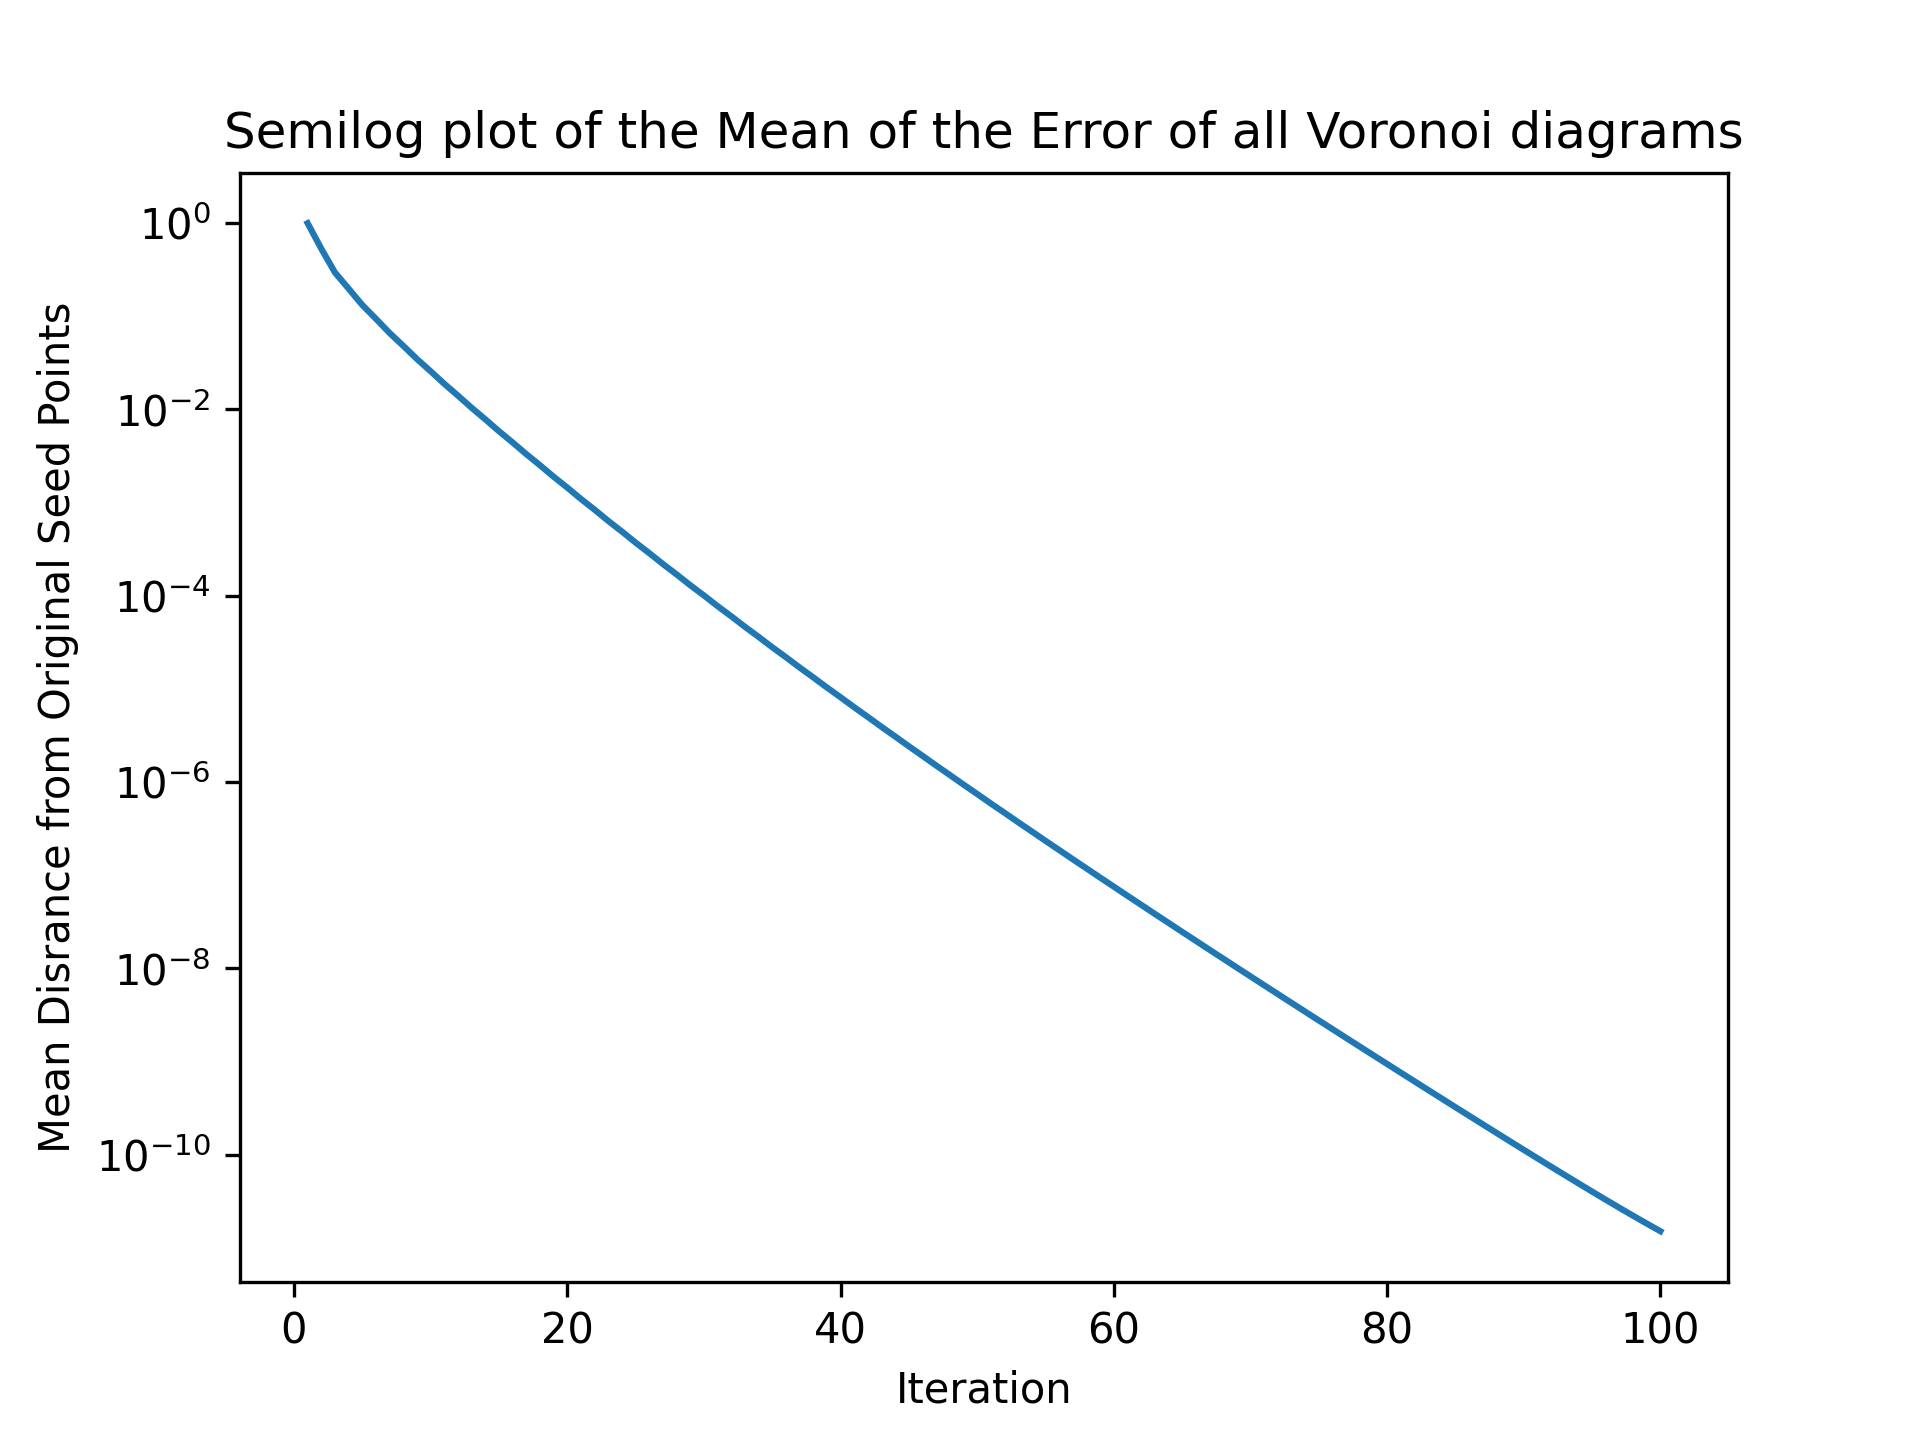
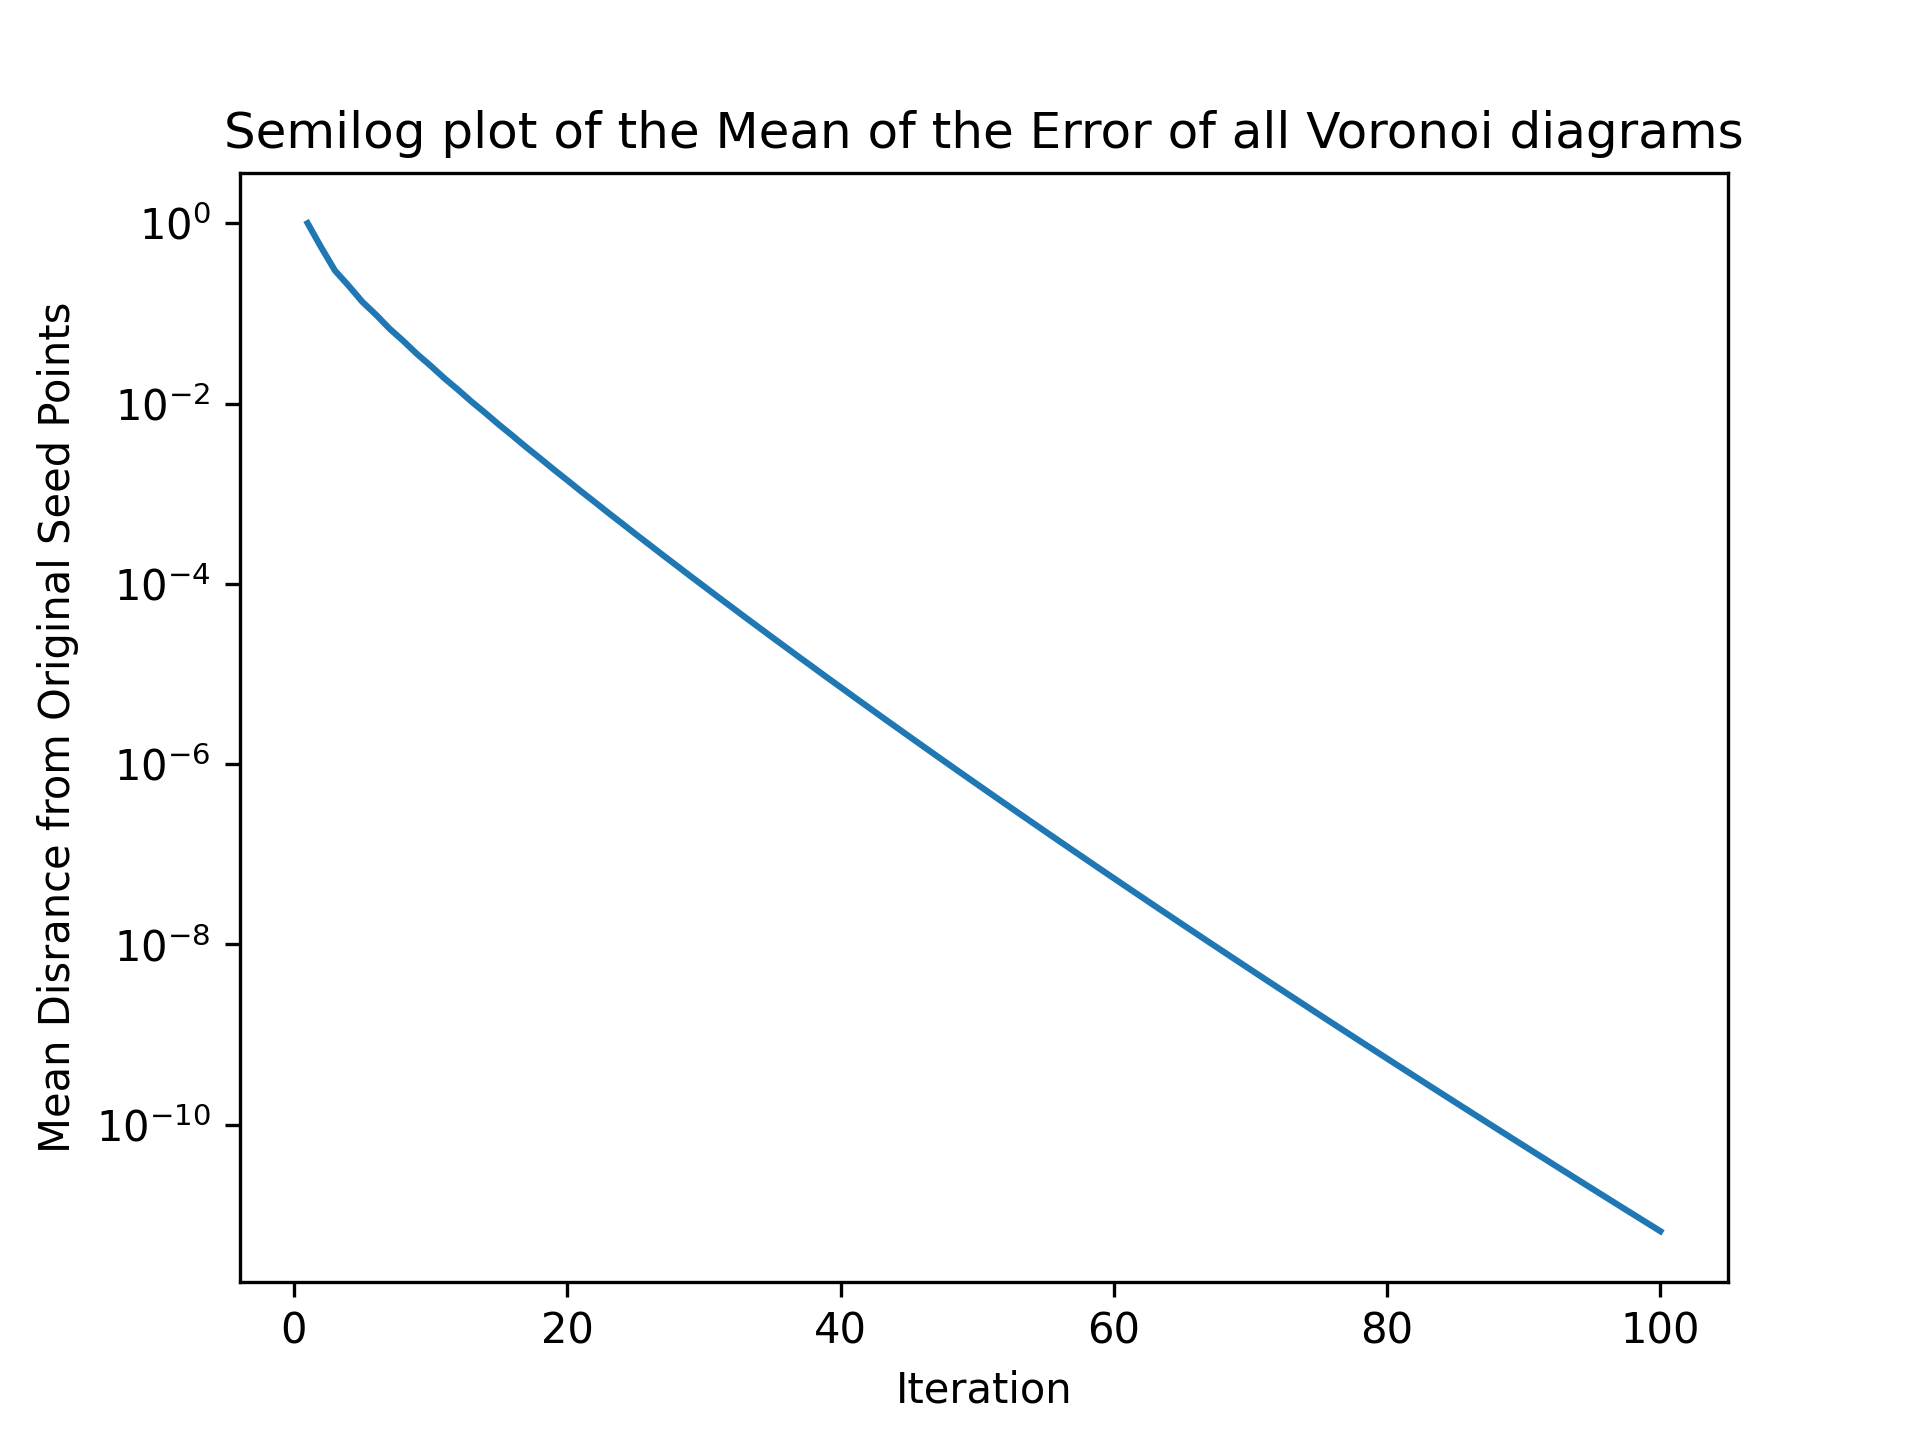
Number of different Voronoi diagrams are increased to 100 to obtain the convergence plot

diff --git a/Voronoi_Different_Random_Points.py b/Voronoi_Different_Random_Points.py
@@ -9,7 +9,7 @@ NoP = 100 # number of points in each Voronoi cell
 # np.random.seed(10)
 dist_to_original_storage ={}
 
-Number_of_Dif_Voronoi_Diagrams = 10
+Number_of_Dif_Voronoi_Diagrams = 100
 
 
 for i in range(Number_of_Dif_Voronoi_Diagrams):
@@ -57,29 +57,29 @@ mean_of_mean_storage_summation = [number/Number_of_Dif_Voronoi_Diagrams for numb
 # print(mean_storage)
 # np.savetxt('/Users/balkirgoka/Documents/Phd/Projects/Voronoi/convergence_type_trial/array.txt', mean_of_mean_storage_summation, fmt='%.15f')
 
-fig1,ax1 = plt.subplots()
+# fig1,ax1 = plt.subplots()
 
 iteration = np.arange(1,101,1)
-print(iteration)
+# print(iteration)
 
-for i in range(len(mean_storage)):
-    ax1.loglog(iteration,mean_storage[f'Random_Voronoi_{i}'],label=f'Random_Voronoi_{i}')
-ax1.set_xlabel('Iteration')
-ax1.set_ylabel('Mean distance from original')
-ax1.set_title('Log-Log plot of Convergence of Each Voronoi diagrams')
+# for i in range(len(mean_storage)):
+#     ax1.loglog(iteration,mean_storage[f'Random_Voronoi_{i}'],label=f'Random_Voronoi_{i}')
+# ax1.set_xlabel('Iteration')
+# ax1.set_ylabel('Mean distance from original')
+# ax1.set_title('Log-Log plot of Convergence of Each Voronoi diagrams')
 
-fig1.savefig('/Users/balkirgoka/Documents/Phd/Projects/Voronoi/Voronoi_6/Plots/Covergence_of_Each_Voronoi_Diagram.png', dpi=300)
+# fig1.savefig('/Users/balkirgoka/Documents/Phd/Projects/Voronoi/Voronoi_6/Plots/Covergence_of_Each_Voronoi_Diagram.png', dpi=300)
 
 
 
-fig2,ax2 = plt.subplots()
+# fig2,ax2 = plt.subplots()
 
-ax2.loglog(iteration,mean_of_mean_storage_summation,label='Mean of the Error of all Voronoi diagrams')
-ax2.set_xlabel('Iteration')
-ax2.set_ylabel('Mean distance from Original Seed Points')
-ax2.set_title('Log-Log plot of the Mean of the Error of all Voronoi diagrams')
+# ax2.loglog(iteration,mean_of_mean_storage_summation,label='Mean of the Error of all Voronoi diagrams')
+# ax2.set_xlabel('Iteration')
+# ax2.set_ylabel('Mean distance from Original Seed Points')
+# ax2.set_title('Log-Log plot of the Mean of the Error of all Voronoi diagrams')
 
-fig2.savefig('/Users/balkirgoka/Documents/Phd/Projects/Voronoi/Voronoi_6/Plots/Log_Log_Convergence.png',dpi=300)
+# fig2.savefig('/Users/balkirgoka/Documents/Phd/Projects/Voronoi/Voronoi_6/Plots/Log_Log_Convergence.png',dpi=300)
 
 
 
@@ -89,17 +89,17 @@ ax3.set_xlabel('Iteration')
 ax3.set_ylabel('Mean Disrance from Original Seed Points')
 ax3.set_title('Semilog plot of the Mean of the Error of all Voronoi diagrams')
 
-fig3.savefig('/Users/balkirgoka/Documents/Phd/Projects/Voronoi/Voronoi_6/Plots/semilog_Convergence.png',dpi=300)
+fig3.savefig('/Users/balkirgoka/Documents/Phd/Projects/Voronoi/Inverse_Voronoi/Plots/semilog_Convergence.png',dpi=300)
 
 
-fig4,ax4 = plt.subplots()
-ax4.plot(iteration,mean_of_mean_storage_summation,label='Mean of the Error of all Voronoi diagrams')
-ax4.set_xlabel('Iteration')
-ax4.set_ylabel('Mean Disrance from Original Seed Points')
-ax4.set_title('Plot of the Mean of the Error of all Voronoi diagrams')
-fig4.savefig('/Users/balkirgoka/Documents/Phd/Projects/Voronoi/Voronoi_6/Plots/plot_Convergence.png',dpi=300)
+# fig4,ax4 = plt.subplots()
+# ax4.plot(iteration,mean_of_mean_storage_summation,label='Mean of the Error of all Voronoi diagrams')
+# ax4.set_xlabel('Iteration')
+# ax4.set_ylabel('Mean Disrance from Original Seed Points')
+# ax4.set_title('Plot of the Mean of the Error of all Voronoi diagrams')
+# fig4.savefig('/Users/balkirgoka/Documents/Phd/Projects/Voronoi/Voronoi_6/Plots/plot_Convergence.png',dpi=300)
 
-plt.show()
+# plt.show()
 
 
 
